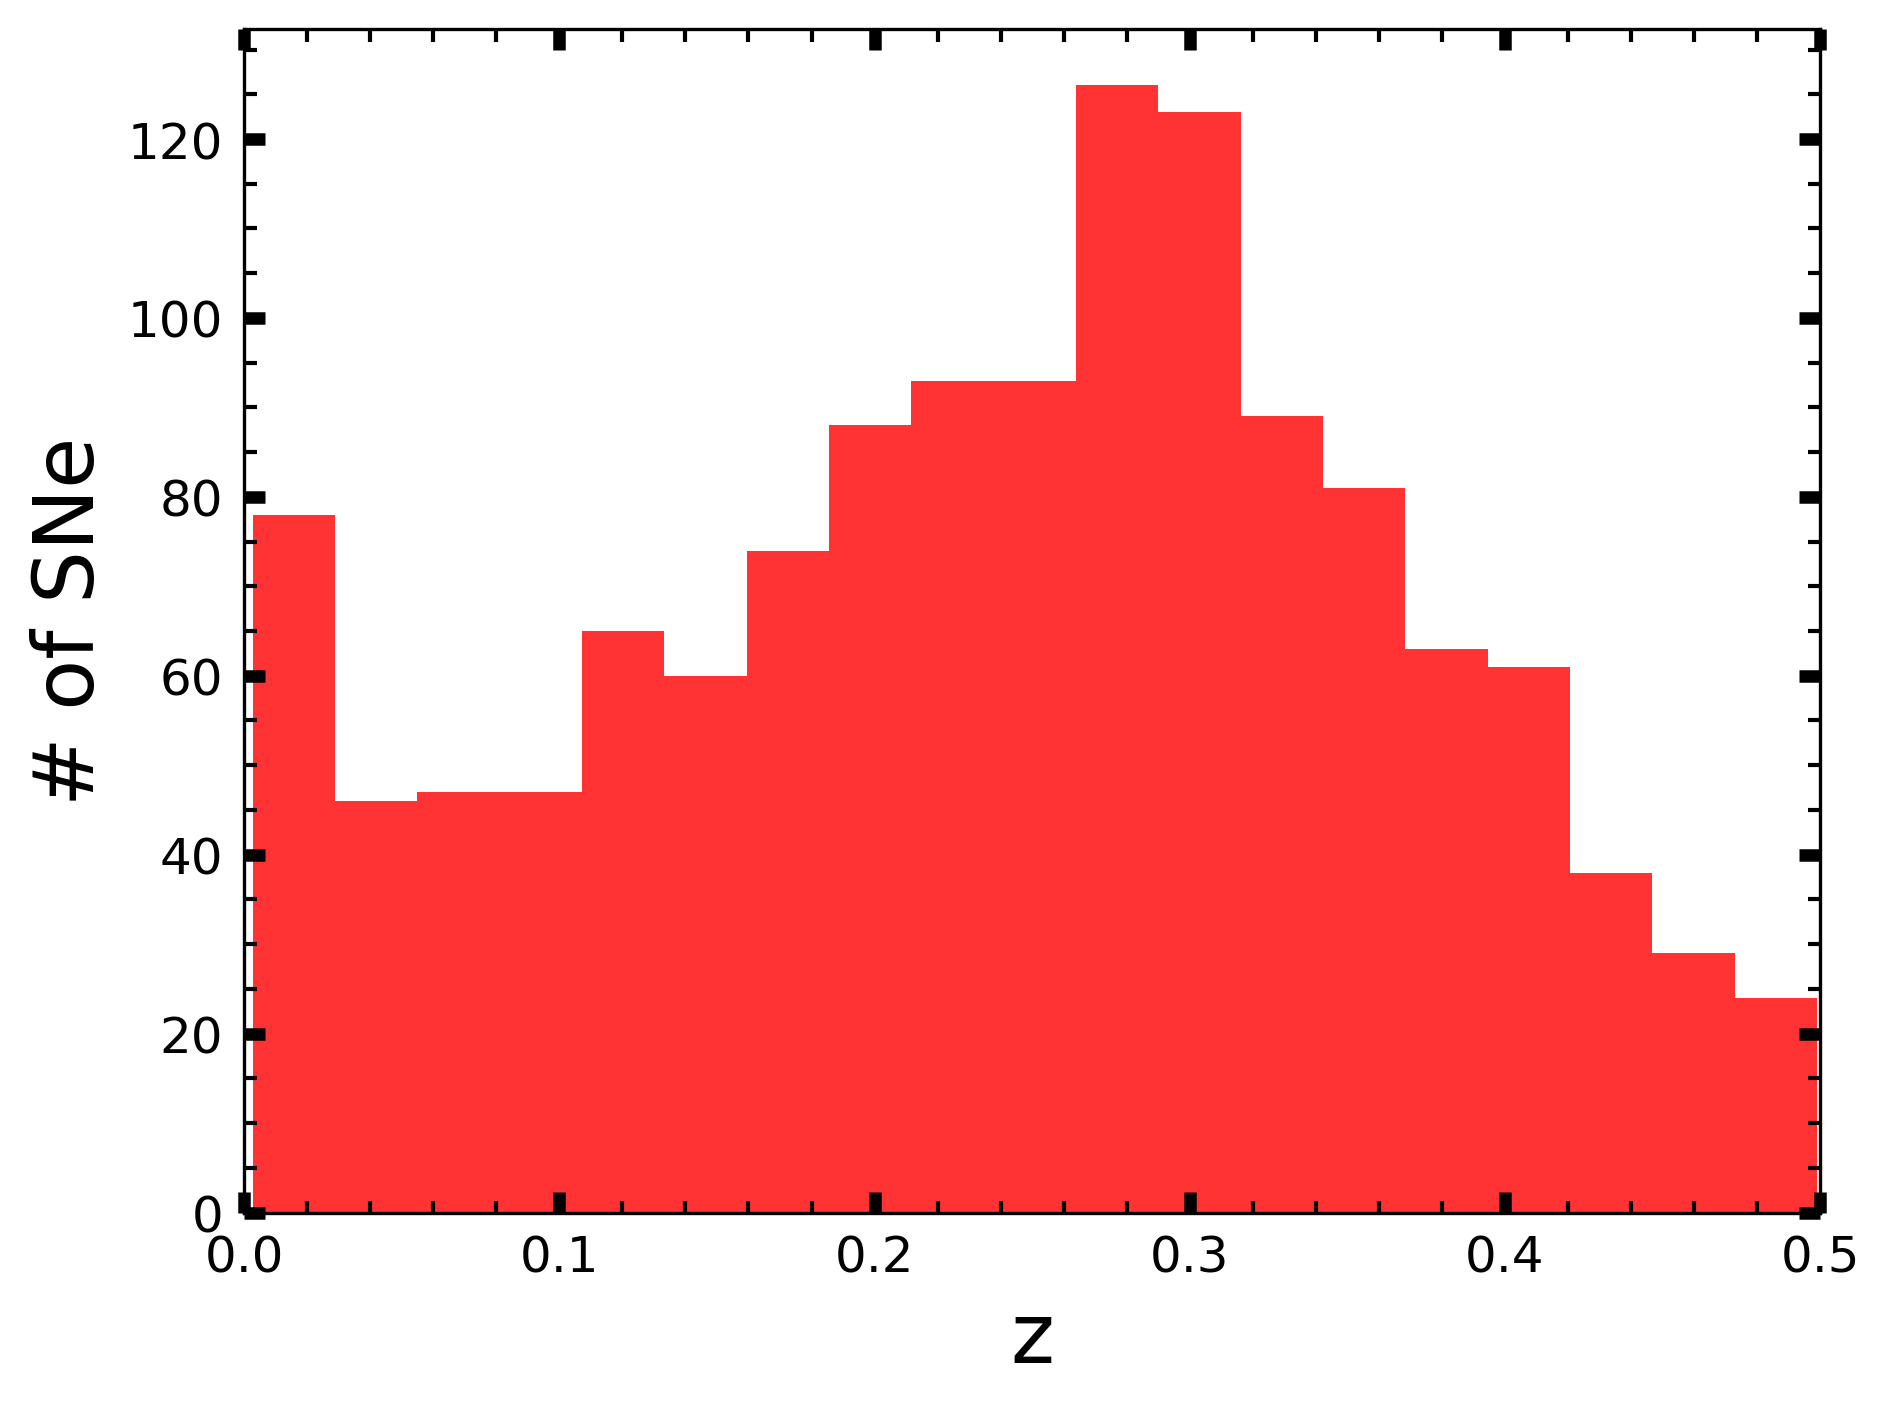
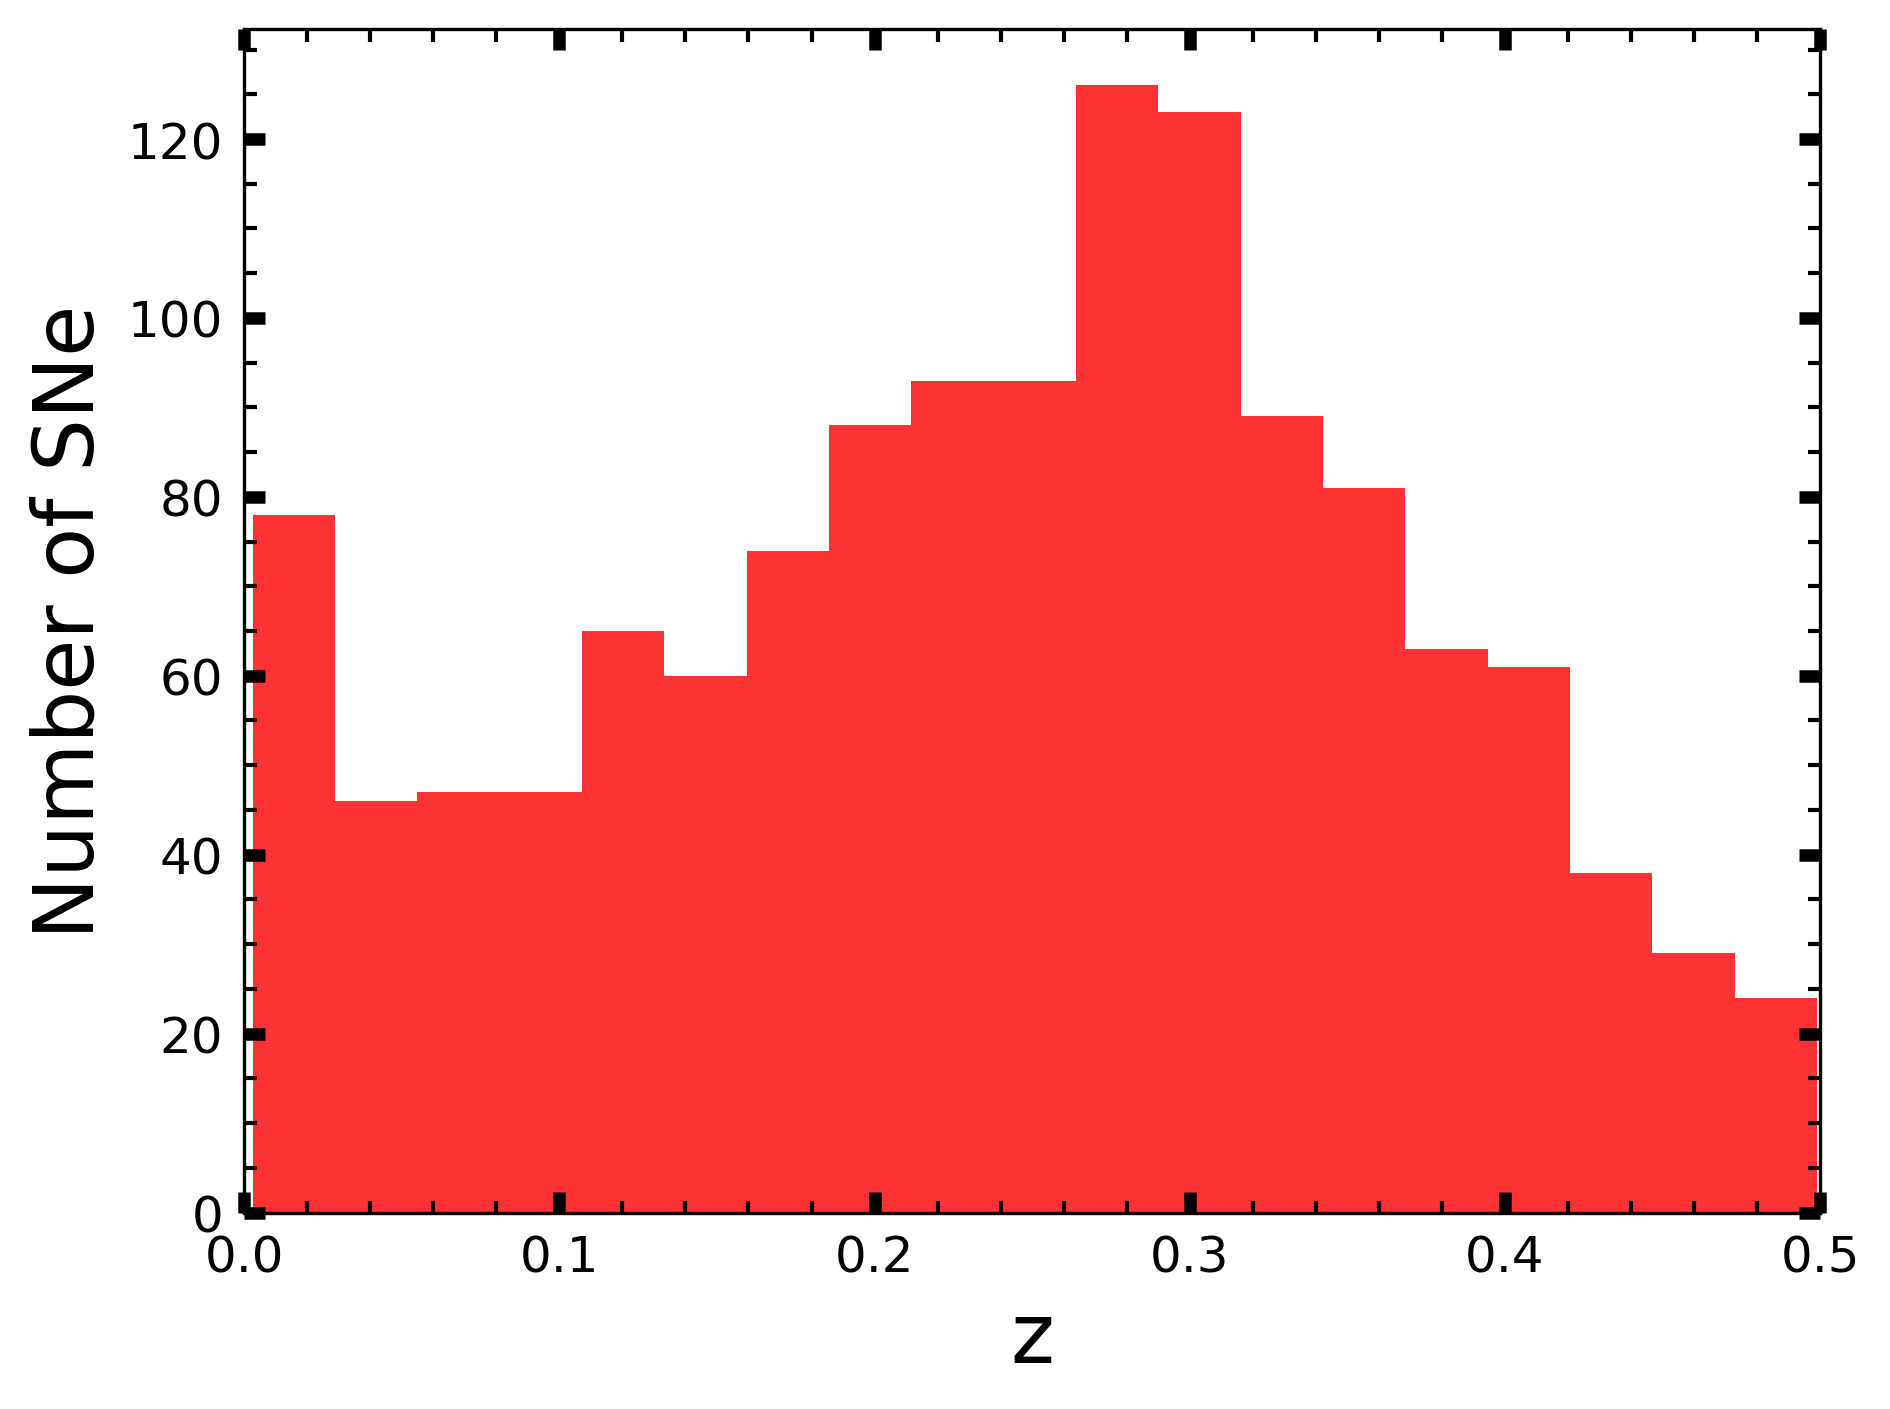
updated short table

Changed region(s): [[0.0, 0.2186, 0.0624, 0.687]]

diff --git a/tex/short_table.tex b/tex/short_table.tex
@@ -38,8 +38,21 @@ and $z<0.5$.\label{tab:Targets}}
  ESSENCEq021 &  2006-09-16 &    2h33m43.919s, -8d05m50.05s &            17 &            694 &           768 &           398 &     0.36 &        1539 &  0.105 &   N/A &  \citet{2016ApJS..224....3N} \\
  ESSENCEq022 &  2006-09-11 &  1h12m03.864s, -0d01m28.9452s &            19 &           1070 &           742 &           387 &  0.22637 &         965 &  0.083 &   N/A &  \citet{2016SDSSD.C...0000:} \\
     HST04Sas &  2004-05-23 &   12h36m54.125s, 62d08m22.21s &           213 &            118 &          2481 &           329 &  0.44643 &        1914 &  0.031 &   N/A &  \citet{2004AJ....127.3121W} \\
+        Hawk &  2004-11-05 &    12h35m41.16s, 62d11m37.19s &           211 &            281 &          2315 &           163 &  0.49673 &        2129 &  0.031 &   N/A &  \citet{2004AJ....127.3121W} \\
+ PS1-1000004 &  2010-01-11 &   3h33m27.948s, -28d22m17.48s &           142 &           2254 &           331 &           314 &    0.231 &         988 &  0.023 &   N/A &  \citet{2014ApJ...795...44R} \\
+ PS1-1000005 &  2010-01-12 &     9h58m59.758s, 3d09m27.11s &            42 &           1438 &           400 &            24 &    0.245 &        1054 &  0.061 &   N/A &  \citet{2014ApJ...795...44R} \\
+ PS1-1000007 &  2010-01-10 &    2h23m30.711s, -4d38m10.76s &           147 &           2223 &           306 &           289 &    0.137 &         583 &  0.071 &   N/A &  \citet{2014ApJ...795...44R} \\
+ PS1-1000008 &  2010-01-10 &    2h24m15.945s, -3d11m11.53s &            54 &           1153 &           306 &           288 &     0.25 &        1067 &  0.076 &   N/A &  \citet{2014ApJ...795...44R} \\
+ PS1-1000009 &  2010-01-10 &    2h20m22.959s, -4d40m21.03s &            65 &           1903 &           306 &           289 &     0.15 &         639 &  0.060 &   N/A &  \citet{2014ApJ...795...44R} \\
+   PS1-10acx &  2010-08-16 &    16h05m54.089s, 55d11m52.3s &            63 &           2231 &           298 &           249 &     0.35 &        1499 &  0.019 &   N/A &  \citet{2014ApJ...795...44R} \\
+   PS1-10bls &  2010-11-07 &   3h32m16.116s, -27d11m39.51s &            93 &           2554 &            31 &            14 &    0.276 &        1180 &  0.020 &   N/A &  \citet{2014ApJ...795...44R} \\
+   PS1-10byr &  2010-12-06 &     22h17m50.801s, 1d02m33.8s &           127 &           2653 &           310 &           310 &     0.24 &        1023 &  0.189 &   N/A &  \citet{2014ApJ...795...44R} \\
+    PS1-10ia &  2010-03-20 &   14h11m31.058s, 53d34m46.48s &            18 &            319 &           359 &             2 &    0.409 &        1753 &  0.035 &   N/A &  \citet{2014ApJ...795...44R} \\
+    PS1-10if &  2010-03-20 &    10h00m21.196s, 1d25m05.25s &            45 &           2225 &           333 &             2 &     0.15 &         647 &  0.056 &   N/A &  \citet{2014ApJ...795...44R} \\
+    PS1-10io &  2010-04-12 &    10h00m44.015s, 3d24m14.31s &            43 &           1528 &           310 &           294 &     0.22 &         947 &  0.067 &   N/A &  \citet{2014ApJ...795...44R} \\
+     PS1-10j &  2010-01-16 &    10h49m14.22s, 58d28m02.04s &            51 &           2184 &           416 &             5 &    0.436 &        1869 &  0.021 &   N/A &  \citet{2014ApJ...795...44R} \\
 \enddata
-\tablecomments{Discovery dates were retrieved from OSC; redshift, Hubble 
+\tablecomments{Discovery dates were retrieved from the Open Supernova Catalog; redshift, Hubble 
 distance, extinction, and host morphology were retrieved from NED. The complete 
 table will be available as supplementary material.}
 \end{deluxetable*}

diff --git a/tex/table.tex b/tex/table.tex
@@ -1345,7 +1345,7 @@ and $z<0.5$.\label{tab:Targets}}
       SNLS-06D4dh &  2006-07-29 &   22h14m19.693s, -17d35m06.03s &           211 &           1063 &           755 &             2 &   0.3027 &        1292 &  0.071 &                             N/A &                        \citet{2011MNRAS.410.1262W} \\
             Yowie &  2004-05-19 &    12h36m34.363s, 62d12m12.55s &           213 &            114 &          2485 &           333 &  0.45733 &        1960 &  0.032 &                             N/A &                        \citet{2004AJ....127.3121W} \\
 \enddata
-\tablecomments{Discovery dates were retrieved from OSC; redshift, Hubble 
+\tablecomments{Discovery dates were retrieved from the Open Supernova Catalog; redshift, Hubble 
 distance, extinction, and host morphology were retrieved from NED. The complete 
 table will be available as supplementary material.}
 \end{deluxetable*}

diff --git a/gen_table.py b/gen_table.py
@@ -10,6 +10,7 @@ CAT_FILE = Path('tex/catalog_codes.txt')
 LATEX_TABLE_TEMPLATE = Path('tex/deluxetable_template.tex')
 LATEX_TABLE_FILE = Path('tex/table.tex')
 SHORT_TABLE_FILE = Path('tex/short_table.tex')
+SHORT_TABLE_LENGTH = 30 # Number of rows to display in short table
 
 
 def main():
@@ -69,7 +70,7 @@ def main():
         file.write(latex_table)
 
     # Generate short table
-    short = sn_info.iloc[0:19]
+    short = sn_info.iloc[0:SHORT_TABLE_LENGTH]
     short_table = short.to_latex(na_rep='N/A', index=False, escape=False,
         columns=columns, formatters=formatters
     )

diff --git a/get_fits_info.py b/get_fits_info.py
@@ -237,8 +237,8 @@ def plot_observations(fits_info, final_sample):
     # Outside axis labels only
     fig.add_subplot(111, frameon=False)
     plt.tick_params(labelcolor='none', top=False, bottom=False, left=False, right=False, which='both')
-    plt.xlabel('Total number of epochs', labelpad=6)
-    plt.ylabel('Number of SNe', labelpad=12)
+    plt.xlabel('Total number of epochs', labelpad=12)
+    plt.ylabel('Number of SNe', labelpad=18)
     plt.savefig(Path('figs/observations.png'), bbox_inches='tight', dpi=300)
     plt.show()
 

diff --git a/scrape_ned.py b/scrape_ned.py
@@ -268,9 +268,7 @@ def plot_redshifts(ned, bin_width=0.025):
     plt.hist(z, bins=bins, histtype='stepfilled', color='r', alpha=0.8)
     fig.set_tight_layout(True)
     plt.xlabel('z')
-    # plt.xlim((0, max(z)))
-    plt.ylabel('# of SNe')
-    # plt.savefig(Path('out/redshifts.png'), bbox_inches='tight', dpi=300)
+    plt.ylabel('Number of SNe')
     plt.xlim((0,0.5))
     plt.savefig(Path('figs/redshifts.png'), bbox_inches='tight', dpi=300)
     plt.close()

diff --git a/tex/deluxetable_template.tex b/tex/deluxetable_template.tex
@@ -4,8 +4,7 @@
 \tablewidth{700pt}
 \tablecaption{Targets surveyed by \galex with epochs before and after discovery 
 and $z<0.5$.\label{tab:Targets}}
-\tabletypesize{\scriptsize}
-\movetabledown=0.5in
+\tabletypesize{\footnotesize}
 \tablehead{
     \multicolumn1l{Target} & \colhead{Disc. Date} & \colhead{\galex Coordinates} & 
     \colhead{Obs.} & \colhead{$t_\text{disc} - t_\text{first}$} & 
